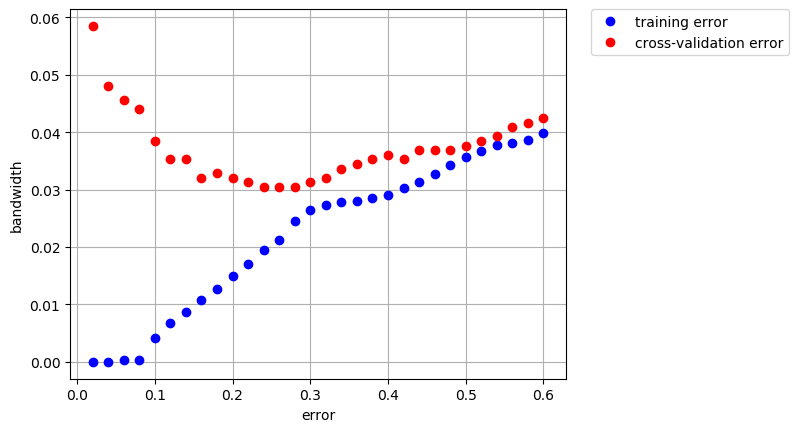
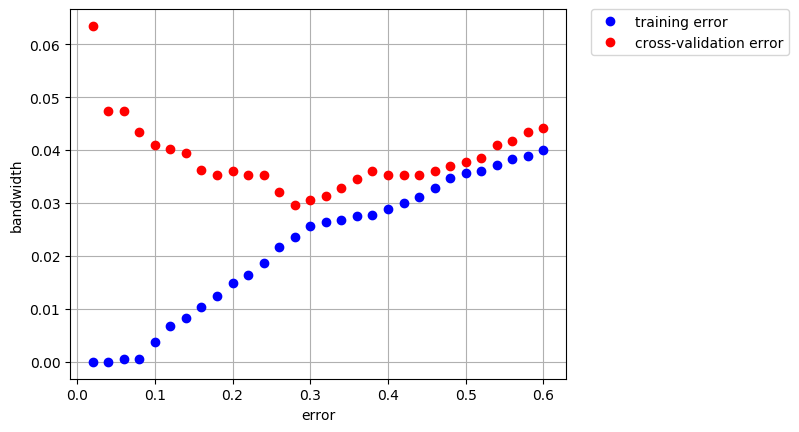
hyperparameter optimization for c & gamma; question finished; new imgs;

diff --git a/First/utils.py b/First/utils.py
@@ -1,10 +1,13 @@
 import numpy as np
 from sklearn import svm
 import NaiveBayes as nb
-from sklearn.model_selection import StratifiedKFold
+from sklearn.model_selection import StratifiedKFold, train_test_split
 import matplotlib.pyplot as plt
 from sklearn.naive_bayes import GaussianNB
 from itertools import combinations
+import csv
+import rbfopt
+
 
 N_SPLIT = 5
 SEED = 42
@@ -42,7 +45,7 @@ class Loader:
         # take data from the file and put all in a ndArray
         mat = np.loadtxt(file_name, delimiter='\t')
         # randomize the rows
-        # np.random.seed(SEED)
+        np.random.seed(SEED)
         np.random.shuffle(mat)
 
         # Ys take only the labels column
@@ -84,11 +87,11 @@ class Model:
     def print_name(self):
         print(self.name)
 
-    def build_model(self, gamma):
-        print("** Error, build_model(self, gamma) not overridden **")
+    def build_model(self, params):
+        print("** Error, build_model(self, params) not overridden **")
 
-    def get_result(self, X_train, y_train, X_val, y_val, gamma):
-        self.build_model(gamma)
+    def get_result(self, X_train, y_train, X_val, y_val, params):
+        self.build_model(params)
         # self.print_name()
         self.model.fit(X_train, y_train.ravel())
 
@@ -105,6 +108,16 @@ class Model:
 
         return v_accuracy, t_accuracy, ern, eri
 
+    def predict(self, X_test, y_test):
+        test_predictions = self.model.predict(X_test)
+
+        ern, eri = find_error_values(test_predictions, y_test)
+        el_num = np.size(test_predictions)
+        test_accuracy = (1 - ern / el_num)
+
+        return test_accuracy
+
+
 class SVM(Model):
 
     def __init__(self, name="SVM"):
@@ -112,11 +125,11 @@ class SVM(Model):
         self.interval = np.arange(start=0.2 , stop=6.2 , step=0.2)
         self.param_name = "gamma"
 
-    def build_model(self, gamma="auto"):
-        self.model = svm.SVC(C=1, gamma=gamma)
+    def build_model(self, params=["auto", 1]):
+        self.model = svm.SVC(C=params[1], gamma=params[0])
     
-    def get_result(self, X_train, y_train, X_val, y_val, gamma):
-        return super().get_result(X_train, y_train, X_val, y_val, gamma)
+    def get_result(self, X_train, y_train, X_val, y_val, params):
+        return super().get_result(X_train, y_train, X_val, y_val, params)
 
     def get_interval(self):
         return self.interval
@@ -128,11 +141,11 @@ class NB(Model):
         self.interval = np.arange(start=0.02, stop=0.62, step=0.02)
         self.param_name = "bandwidth"
 
-    def build_model(self, gamma):
-        self.model = nb.NaiveBayes(gamma)
+    def build_model(self, params):
+        self.model = nb.NaiveBayes(params[0])
     
-    def get_result(self, X_train, y_train, X_val, y_val, gamma):
-        return super().get_result(X_train, y_train, X_val, y_val, gamma)
+    def get_result(self, X_train, y_train, X_val, y_val, params):
+        return super().get_result(X_train, y_train, X_val, y_val, params)
 
     def get_interval(self):
         return self.interval
@@ -142,35 +155,34 @@ class GaussNB(Model):
     def __init__(self, name="GaussNB"):
         super().__init__(name)
 
-    def build_model(self, gamma):
+    def build_model(self, params):
         self.model = GaussianNB()
     
-    def get_result(self, X_train, y_train, X_val, y_val, gamma=None):
-        return super().get_result(X_train, y_train, X_val, y_val, gamma)
+    def get_result(self, X_train, y_train, X_val, y_val, params=None):
+        return super().get_result(X_train, y_train, X_val, y_val, params)
 
 class Result():
 
-    def __init__(self, model, best_gamma, valid_results, train_results):
-        self.model = model
-        self.best_gamma = best_gamma
+    def __init__(self, model, best_param, valid_results, train_results):
+        self.name = model.name
+        self.param_name = model.param_name
+        self.interval = model.get_interval()
+
+        self.best_param = best_param
         self.valid_results = valid_results
         self.train_results = train_results
 
     def save_plot(self):
         plt.figure()
-        t = self.model.get_interval()
+        t = self.interval
         plt.plot(t, self.train_results, 'bo', label='training error')
         plt.plot(t, self.valid_results, 'ro', label='cross-validation error')
         plt.xlabel('error')
-        plt.ylabel(f'{self.model.param_name}')
+        plt.ylabel(f'{self.param_name}')
         plt.grid(True)
         plt.legend(bbox_to_anchor=(1.05, 1), loc='upper left', borderaxespad=0.)
-        plt.savefig(f'{self.model.name}.png', bbox_inches='tight')
-        
-        # plt.show()
-        # plt.close()
-
-
+        plt.savefig(f'{self.name}.png', bbox_inches='tight')
+        plt.close()
 
 
 def find_error_values(a, b):
@@ -182,7 +194,7 @@ def find_error_values(a, b):
             error_indexes.append(i)
     return error_n, error_indexes
 
-def gamma_optimizing(model, X, y):
+def param_optimizing(model, X, y):
 
     valid_results = []
     train_results = []
@@ -192,9 +204,9 @@ def gamma_optimizing(model, X, y):
     min_valid_error = float('inf')
     min_train_error = float('inf')
 
-    best_gamma = 0
+    best_param = 0
 
-    for g in model.get_interval():
+    for p in model.get_interval():
 
         sum_valid_acc = 0
         sum_train_acc = 0
@@ -204,7 +216,7 @@ def gamma_optimizing(model, X, y):
             X_train, y_train = X[train_index], y[train_index] 
             X_test , y_test  = X[test_index] , y[test_index]
 
-            one_fold_valid_acc, one_fold_train_acc, _, _ = model.get_result(X_train, y_train, X_test, y_test, gamma=g)
+            one_fold_valid_acc, one_fold_train_acc, _, _ = model.get_result(X_train, y_train, X_test, y_test, params=[p, 1])
             
             sum_valid_acc += one_fold_valid_acc
             sum_train_acc += one_fold_train_acc
@@ -217,11 +229,9 @@ def gamma_optimizing(model, X, y):
 
         if k_fold_valid_err < min_valid_error:
             min_valid_error = k_fold_valid_err
-            best_gamma = g
+            best_param = p
 
-    return Result(model, best_gamma, valid_results, train_results)
-
-
+    return Result(model, best_param, valid_results, train_results)
 
 
 def normal_comparing(dic, N):
@@ -247,11 +257,9 @@ def normal_comparing(dic, N):
 
     return
 
-
 def set_substraction(set_A, set_B):
     # [A and B are set] A.difference(B) is equal to the elements present in A but not in B
     return len(set(set_A).difference(set(set_B)))
-
 
 def mcnemar_comparing(dic):
 
@@ -281,3 +289,57 @@ def mcnemar_comparing(dic):
             else:
                 print(' the difference of performance is not significant')
 
+
+def hyperparameter_optimization(X_train, y_train, X_test , y_test):
+
+    # X_test , y_test
+    X_train, X_val, y_train, y_val = train_test_split(X_train, y_train, test_size=0.33, random_state=SEED, stratify=y_train)
+
+    ''' Radial Basis Function hyperparameters optimization '''
+
+    csv_evaluations_file = "evaluations.csv"
+
+    # hyperparameters domains
+    hyp_domains = {"gamma": (0.02, 0.62), "C": (1.e-03, 1.e+02)}
+    num_evaluations = 25
+
+    print("Beginning hyperparameters optimization with RBF")
+    csv_header = ['hyp_opt', 'gamma', 'C', 'train_err', 'val_err', 'test_err']
+
+    with open(csv_evaluations_file, mode='a') as file_csv:
+        file_csv = csv.writer(file_csv, delimiter=',', quotechar='"', quoting=csv.QUOTE_MINIMAL)
+        file_csv.writerow(csv_header)
+    
+    hyp_opt = "RBF"
+    var_lower = [ hyp_domains["gamma"][0], hyp_domains["C"][0] ]
+    var_upper = [ hyp_domains["gamma"][1], hyp_domains["C"][1] ]
+
+    def evaluate_RBF(hyperparameters):
+
+        gamma, C = hyperparameters[0], hyperparameters[1]
+
+        svm_model = SVM() 
+
+        svm_val_acc, svm_train_acc, _, _ = \
+                            svm_model.get_result(X_train, y_train, X_val, y_val, params=[gamma, C])
+
+        svm_test_acc = svm_model.predict(X_test , y_test)
+
+        with open(csv_evaluations_file, mode='a') as file_csv:
+            file_csv = csv.writer(file_csv, delimiter=',', quoting=csv.QUOTE_MINIMAL)
+            # ['hyp_opt', 'gamma', 'C', 'train_accuracy', 'val_accuracy', 'test_accuracy']
+            file_csv.writerow([hyp_opt, str(gamma), str(C), str(1 - svm_train_acc), str(1 - svm_val_acc), str(1 - svm_test_acc)])
+
+        return 1 - svm_test_acc
+
+    bb = rbfopt.RbfoptUserBlackBox(2, var_lower, var_upper, ['R', 'R'], evaluate_RBF)
+    # minlp_solver_path='/Applications/bonmin', 
+    settings = rbfopt.RbfoptSettings(minlp_solver_path='/Applications/bonmin', max_evaluations=num_evaluations, target_objval= 0.0)
+    alg = rbfopt.RbfoptAlgorithm(settings, bb)
+    val, x, itercount, evalcount, fast_evalcount = alg.optimize()
+    print("Results with RBF optimizer: " + str({"target": val, "gamma": x[0], "C": x[1]}) + "\n")
+    with open(csv_evaluations_file, mode='a') as file_csv:
+        file_csv = csv.writer(file_csv, delimiter=',', quotechar='"', quoting=csv.QUOTE_MINIMAL)
+        file_csv.writerow(['', '', '', '', '', '', '', ''])
+
+    return x

diff --git a/First/TP1.py b/First/TP1.py
@@ -1,4 +1,16 @@
 from utils import *
+import argparse
+
+parser = argparse.ArgumentParser(description='Process some integers.')
+
+parser.add_argument('--hyper-opt', 
+                    default=False,
+                    action='store_true',
+                    help='[default False] it allow to use hyperparameters optimization for C and gamma (SVM model)')
+
+args = parser.parse_args()
+
+with_hyper_optimization = args.hyper_opt
 
 def main():
     
@@ -17,49 +29,79 @@ def main():
     del(train, test)
 
     svm_model = SVM()
+    if with_hyper_optimization: 
+        hype_svm_model = SVM()
     nb_model = NB()
     gnb_model = GaussNB()
 
-    print("\n *** GAMMA OPTIMIZATION ... \n")
+    print("\n *** PARAM OPTIMIZATION ... \n")
 
-    svm_result = gamma_optimizing(svm_model, X_train, y_train)
-    nb_result  = gamma_optimizing(nb_model, X_train, y_train)
+    svm_result = param_optimizing(svm_model, X_train, y_train)
+    nb_result  = param_optimizing(nb_model, X_train, y_train)
 
     print("\n *** SAVING PLOTS ...\n")
 
     svm_result.save_plot()
     nb_result.save_plot()
 
-    print("\n *** CALCULATING SVM WITH BEST GAMMA ...")
+    if with_hyper_optimization:
+        hyper_params = hyperparameter_optimization(X_train, y_train, X_test , y_test)
+
+
+    print("\n *** BEST PARAMS ***")
+    print(f'SVM      best gamma: {svm_result.best_param} , default C : 1 ') 
+    if with_hyper_optimization:
+        print(f'hyperSVM best gamma: {hyper_params[0]} ,  best   C : {hyper_params[1]} ') 
+    print(f'NB       best bandwidth: {nb_result.best_param} ')
+    print(f'GNB      no params ') # ; train err: {1 - gnb_train_acc}')
+    print('\n')
+
+
+    print(f' *** CALCULATING SVM ...')
 
     svm_test_acc, svm_train_acc, svm_err_number, svm_err_index = \
-                        svm_model.get_result(X_train, y_train, X_test, y_test, gamma=svm_result.best_gamma)
+                        svm_model.get_result(X_train, y_train, X_test, y_test, params=[svm_result.best_param, 1])
+
+    if with_hyper_optimization:
+        print(f' *** CALCULATING HYP SVM ...')
+
+        hyp_svm_test_acc, hyp_svm_train_acc, hyp_svm_err_number, hyp_svm_err_index = \
+                            hype_svm_model.get_result(X_train, y_train, X_test, y_test, params=hyper_params)
+
     
-    print("*** CALCULATING NB WITH BEST GAMMA ...")
+    print(f' *** CALCULATING NB ...')
 
     nb_test_acc, nb_train_acc  , nb_err_number , nb_err_index  = \
-                        nb_model.get_result(X_train, y_train, X_test, y_test, gamma=nb_result.best_gamma)
+                        nb_model.get_result(X_train, y_train, X_test, y_test, params=[nb_result.best_param, 1])
 
-    print("*** CALCULATING GAUSSIAN NB ...\n")
+    print(" *** CALCULATING GAUSSIAN NB ...\n")
 
     gnb_test_acc, gnb_train_acc, gnb_err_number, gnb_err_index = \
                         gnb_model.get_result(X_train, y_train, X_test, y_test)
 
     del(svm_model, nb_model, gnb_model)
     del(svm_result, nb_result)
+
     del(X_train, y_train, X_test, y_test)
 
     print("\n *** RESULTS ***")
-    print(f'SVM test acc: {svm_test_acc} ; train acc: {svm_train_acc}')
-    print(f'NB  test acc: {nb_test_acc} ; train acc: {nb_train_acc}')
-    print(f'GNB test acc: {gnb_test_acc} ; train acc: {gnb_train_acc}')
+    print(f'SVM      test err: {100*(1 - svm_test_acc)} % ') # ; train err: {1 - svm_train_acc}')
+
+    if with_hyper_optimization:
+        print(f'hyperSVM test err: {100*(1 - hyp_svm_test_acc)} % ') # ;train err: {1 - hyp_svm_train_acc}')
+
+    print(f'NB       test err: {100*(1 - nb_test_acc)} % ') # ;train err: {1 - nb_train_acc}')
+    print(f'GNB      test err: {100*(1 - gnb_test_acc)} % ') # ; train err: {1 - gnb_train_acc}')
     print('\n')
 
     results = {
-        "SVM" : [svm_test_acc, svm_err_number, svm_err_index],
-        "NB"  : [nb_test_acc , nb_err_number , nb_err_index],
-        "GNB" : [gnb_test_acc, gnb_err_number, gnb_err_index]
+        "SVM"    : [svm_test_acc    , svm_err_number    , svm_err_index],
+        "NB"     : [nb_test_acc     , nb_err_number     , nb_err_index],
+        "GNB"    : [gnb_test_acc    , gnb_err_number    , gnb_err_index]
     }
+
+    if with_hyper_optimization:
+        results["hypSVM"] = [hyp_svm_test_acc, hyp_svm_err_number, hyp_svm_err_index]
 
     print("\n *** NORMAL COMPARISON ***\n")
 

diff --git a/First/NaiveBayes.py b/First/NaiveBayes.py
@@ -83,22 +83,10 @@ class NaiveBayes:
 
         self.models_ = [KernelDensity(bandwidth=self.bandwidth).fit(Xi) for Xi in X_train_by_class]
 
+        # list dimension (1, 2)
         self.logpriors_ = [np.log(Xi.shape[0] / X_train.shape[0]) for Xi in X_train_by_class]
         
         return self
-
-    def class_prob(self, y_class):
-        """
-            Class Probability function. Calculates the probability of the class y_class.
-
-            Parameters
-            ----------
-            - y_class:
-                The class which we want to calculate the probability (prior probability).
-        """
-        n = len([item for item in self.y_train if item == y_class])
-        d = len(self.y_train)
-        return n * 1.0 /d
 
     def predict(self, X):
         """
@@ -121,6 +109,9 @@ class NaiveBayes:
                 The validation/test set in order to calculate the logarithm of the likelyhood for each class.
         """
         logprobs = np.array([model.score_samples(X) for model in self.models_]).T
+        # train dimension (996, 2)
+        # valid dimension (250, 2)
+
         result = logprobs + self.logpriors_
         return result
  
